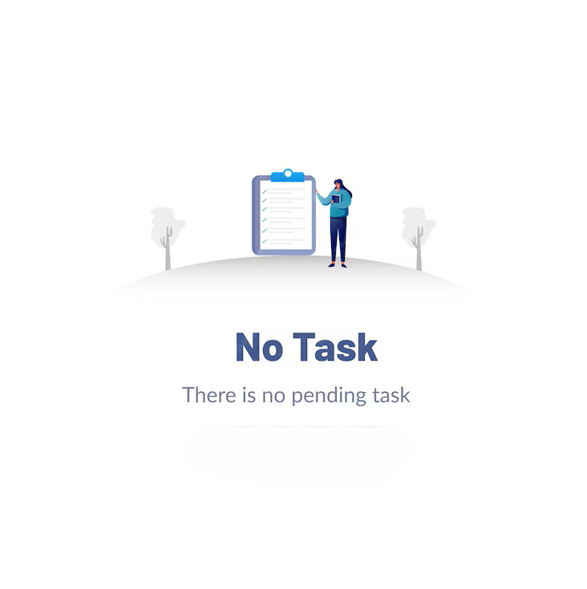
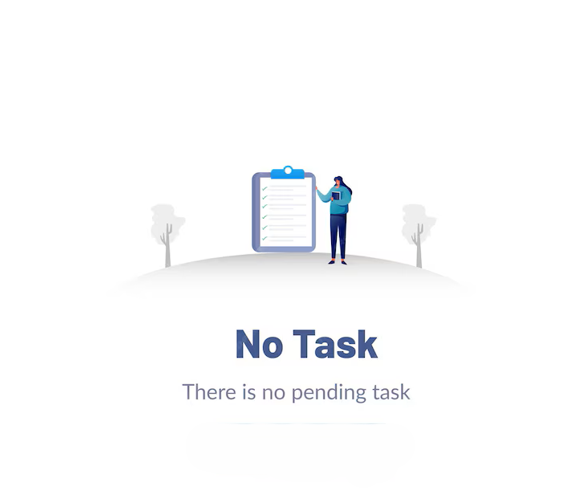
added image functionality

Changed region(s): [[0.276, 0.2761, 0.7359, 0.6135], [0.3066, 0.6442, 0.7053, 0.7362], [0.3066, 0.7669, 0.7053, 0.8282]]

diff --git a/script.js b/script.js
@@ -1,5 +1,5 @@
 let todoList = [];
-
+check();
 function add(){
     let inputElement = document.querySelector('.todo-input');
     let inputText = inputElement.value; 
@@ -31,9 +31,23 @@ function display(){
         <span>${item}</span>
         <span>${dueDate}</span>
         <span>${dueTime}</span>
-        <button class = "btn-del btn" onclick = "todoList.splice(${i},1); display();">Delete</button>
+        <button class = "btn-del btn" onclick = "todoList.splice(${i},1); display(); check();">Delete</button>
         `
     }
     containerElement.innerHTML = newHTMl;
 
+}
+
+function check(){
+    if(todoList.length == 0){
+        let spanElement = document.querySelector('span');
+        let newHTMl = '';
+        // newHTMl += spanElement.innerHTML;
+        newHTMl =`
+        <img src="images/Screenshot 2024-06-09 123457.png" alt="NO TASKS">
+        `
+    
+        document.querySelector('span').innerHTML = newHTMl;
+    
+    }
 }

diff --git a/index.html b/index.html
@@ -19,7 +19,9 @@
         <button class="btn-add btn" onclick="add()">Add</button>
     </div>
 
-    <span class="no-tasks"><img src="images/Screenshot 2024-06-09 123457.png" alt="NO TASKS"></span>
+    <span class="no-tasks">
+        <!-- <img src="images/Screenshot 2024-06-09 123457.png" alt="NO TASKS"> -->
+    </span>
 
     <div class="show-container"></div>
 
